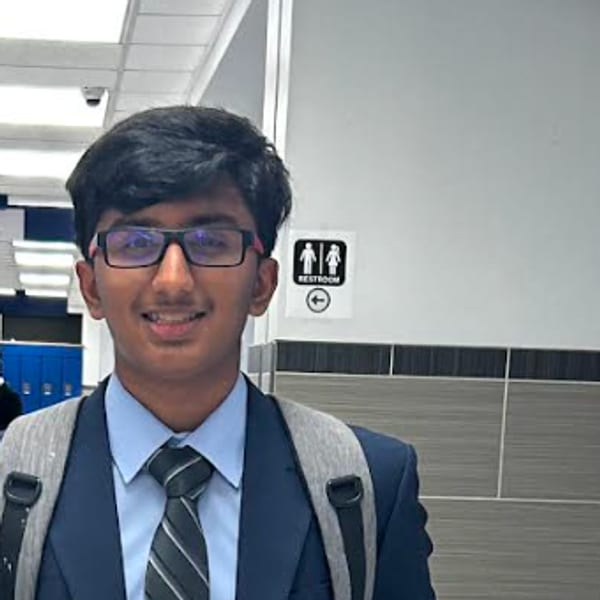
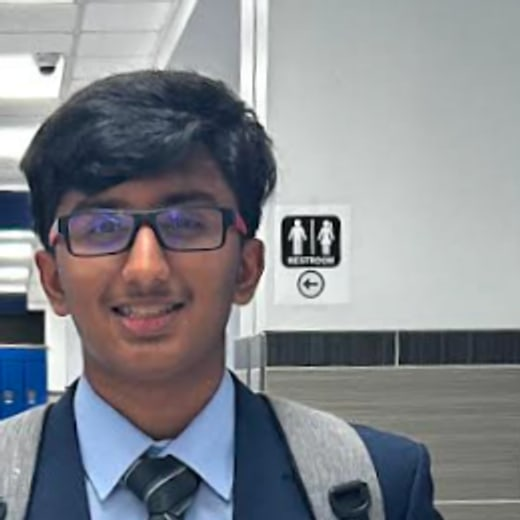
Add Sujan's headshot, straighten and enlarge Praneel's
Praneel's was shot a little off level. Measured against the tile band on the
back wall it fell about 15px over 370, so the image is rotated 2.3 degrees
counter-clockwise and re-cropped from the levelled version. The crop still
starts clear of the student standing in the hallway behind him.

Team photographs go from 120px to 260px. At thumbnail size a real portrait
reads as an avatar rather than as a person, and the empty placeholder frames
beside them looked larger than the photographs they stood in for.

Sujan's studio headshot is cropped to the 3:4 of the lead frame, positioned
so the headroom above him is about an eighth of the frame.

Claude-Session: https://claude.ai/code/session_018qkaLnDMjcPeQo5vipEdAi

diff --git a/src/content/people.ts b/src/content/people.ts
@@ -39,7 +39,10 @@ export const people: Person[] = [
       "I'm a rising junior at Independence High School. Education has always been one of the most important parts of my life. Growing up in the United Kingdom and later moving to the United States, I experienced two very different education systems. That change was hard, but not impossible, because of the people around me and the resources I had to overcome any obstacles that came my way.",
       "This isn't the same for everyone, and I want to fight to change that. Not every student has that privilege. Vidora Foundation is my attempt to remove the small, fixable barriers that stop students from showing up ready to learn: a notebook, a pencil, a geometry set.",
     ],
-    photo: null,
+    photo: {
+      src: '/people/sujan-sannidhi.jpg',
+      alt: 'Sujan Sannidhi',
+    },
     email: 'sujan@vidorafoundation.org',
     linkedin: null,
   },
